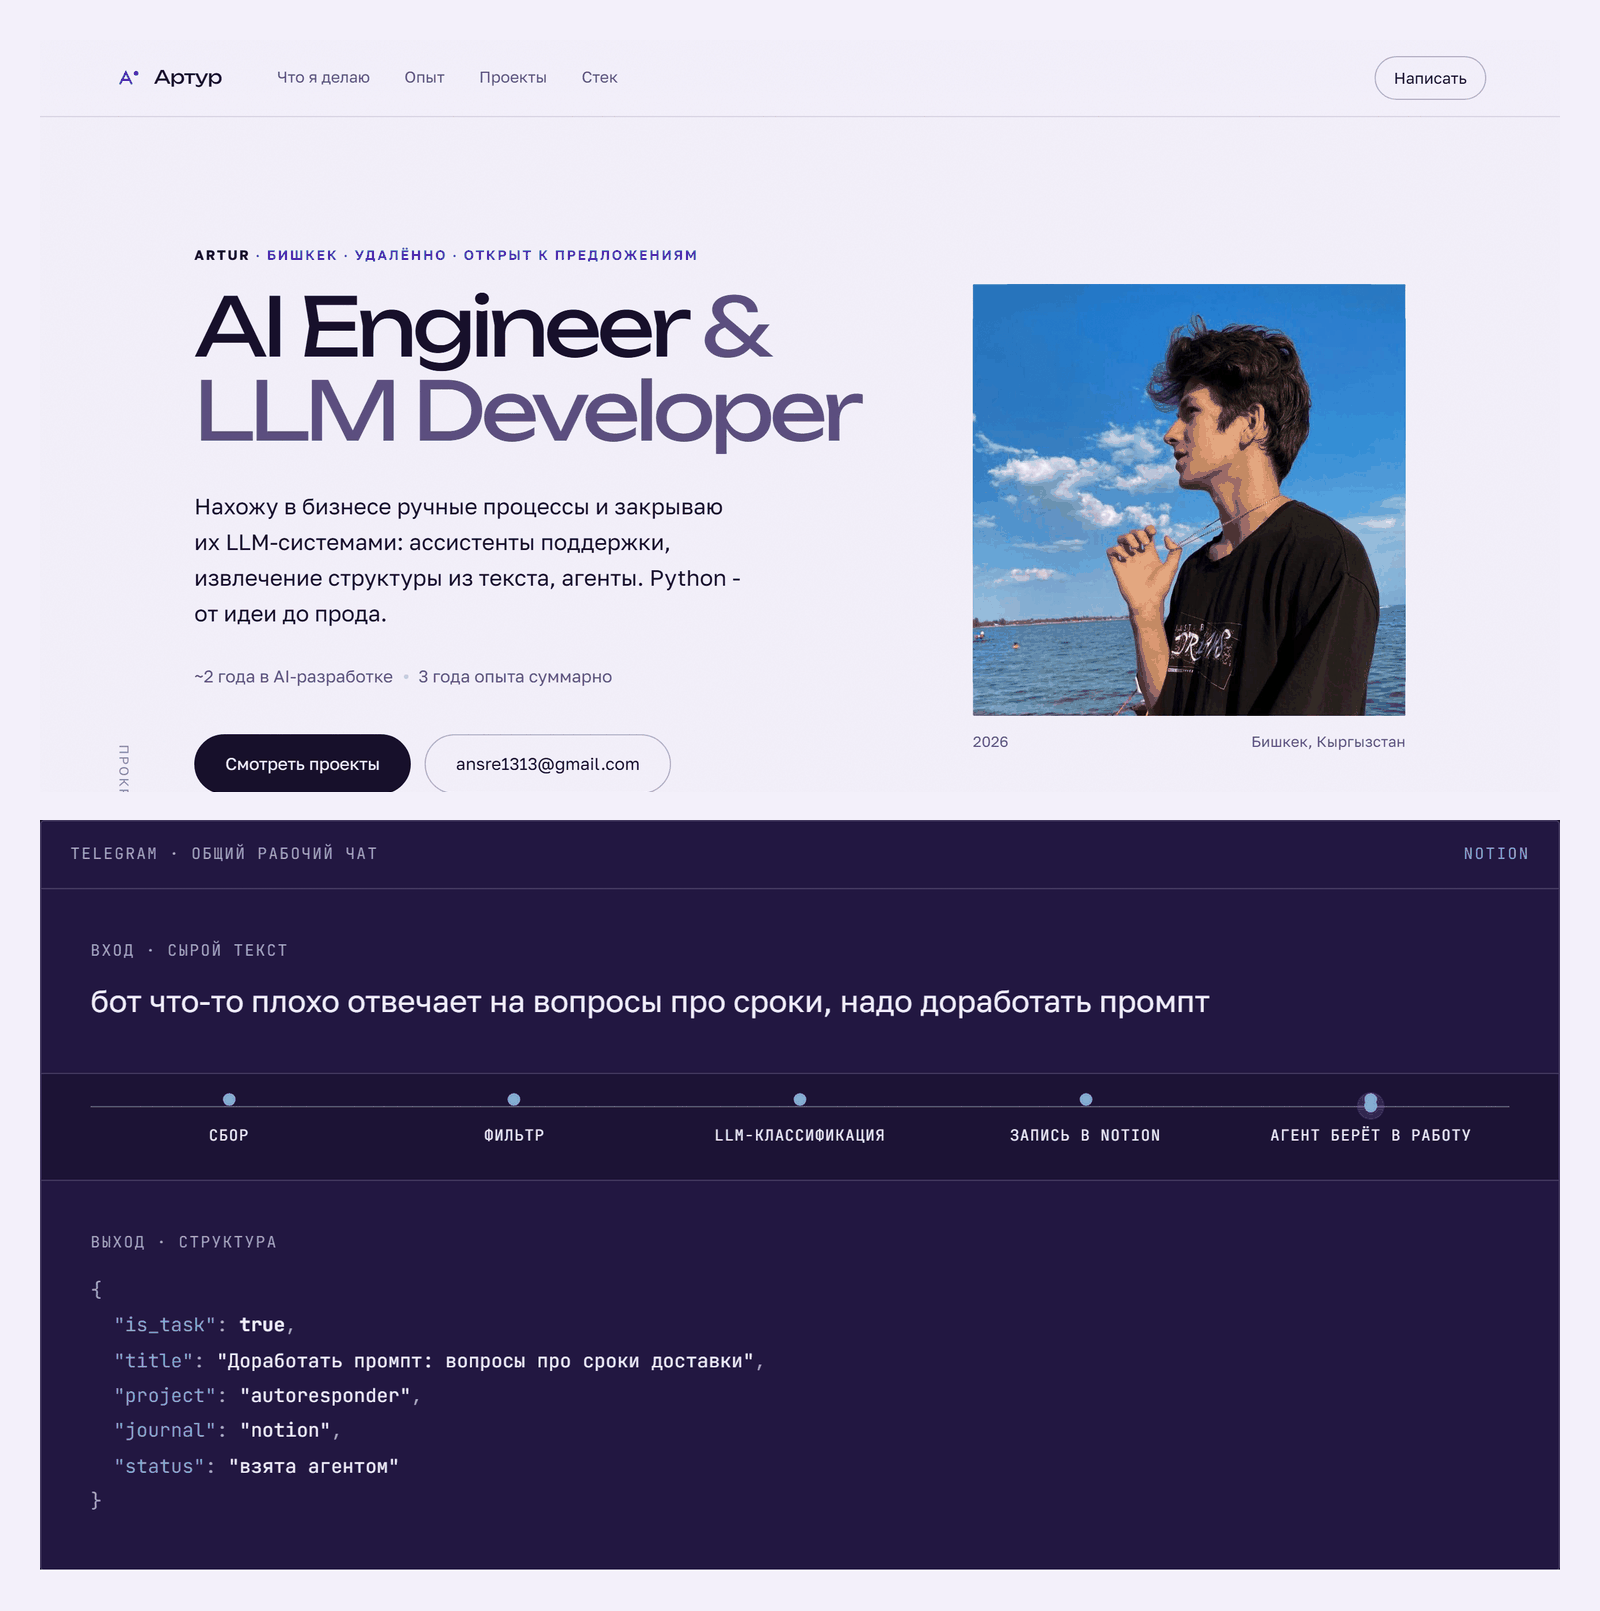
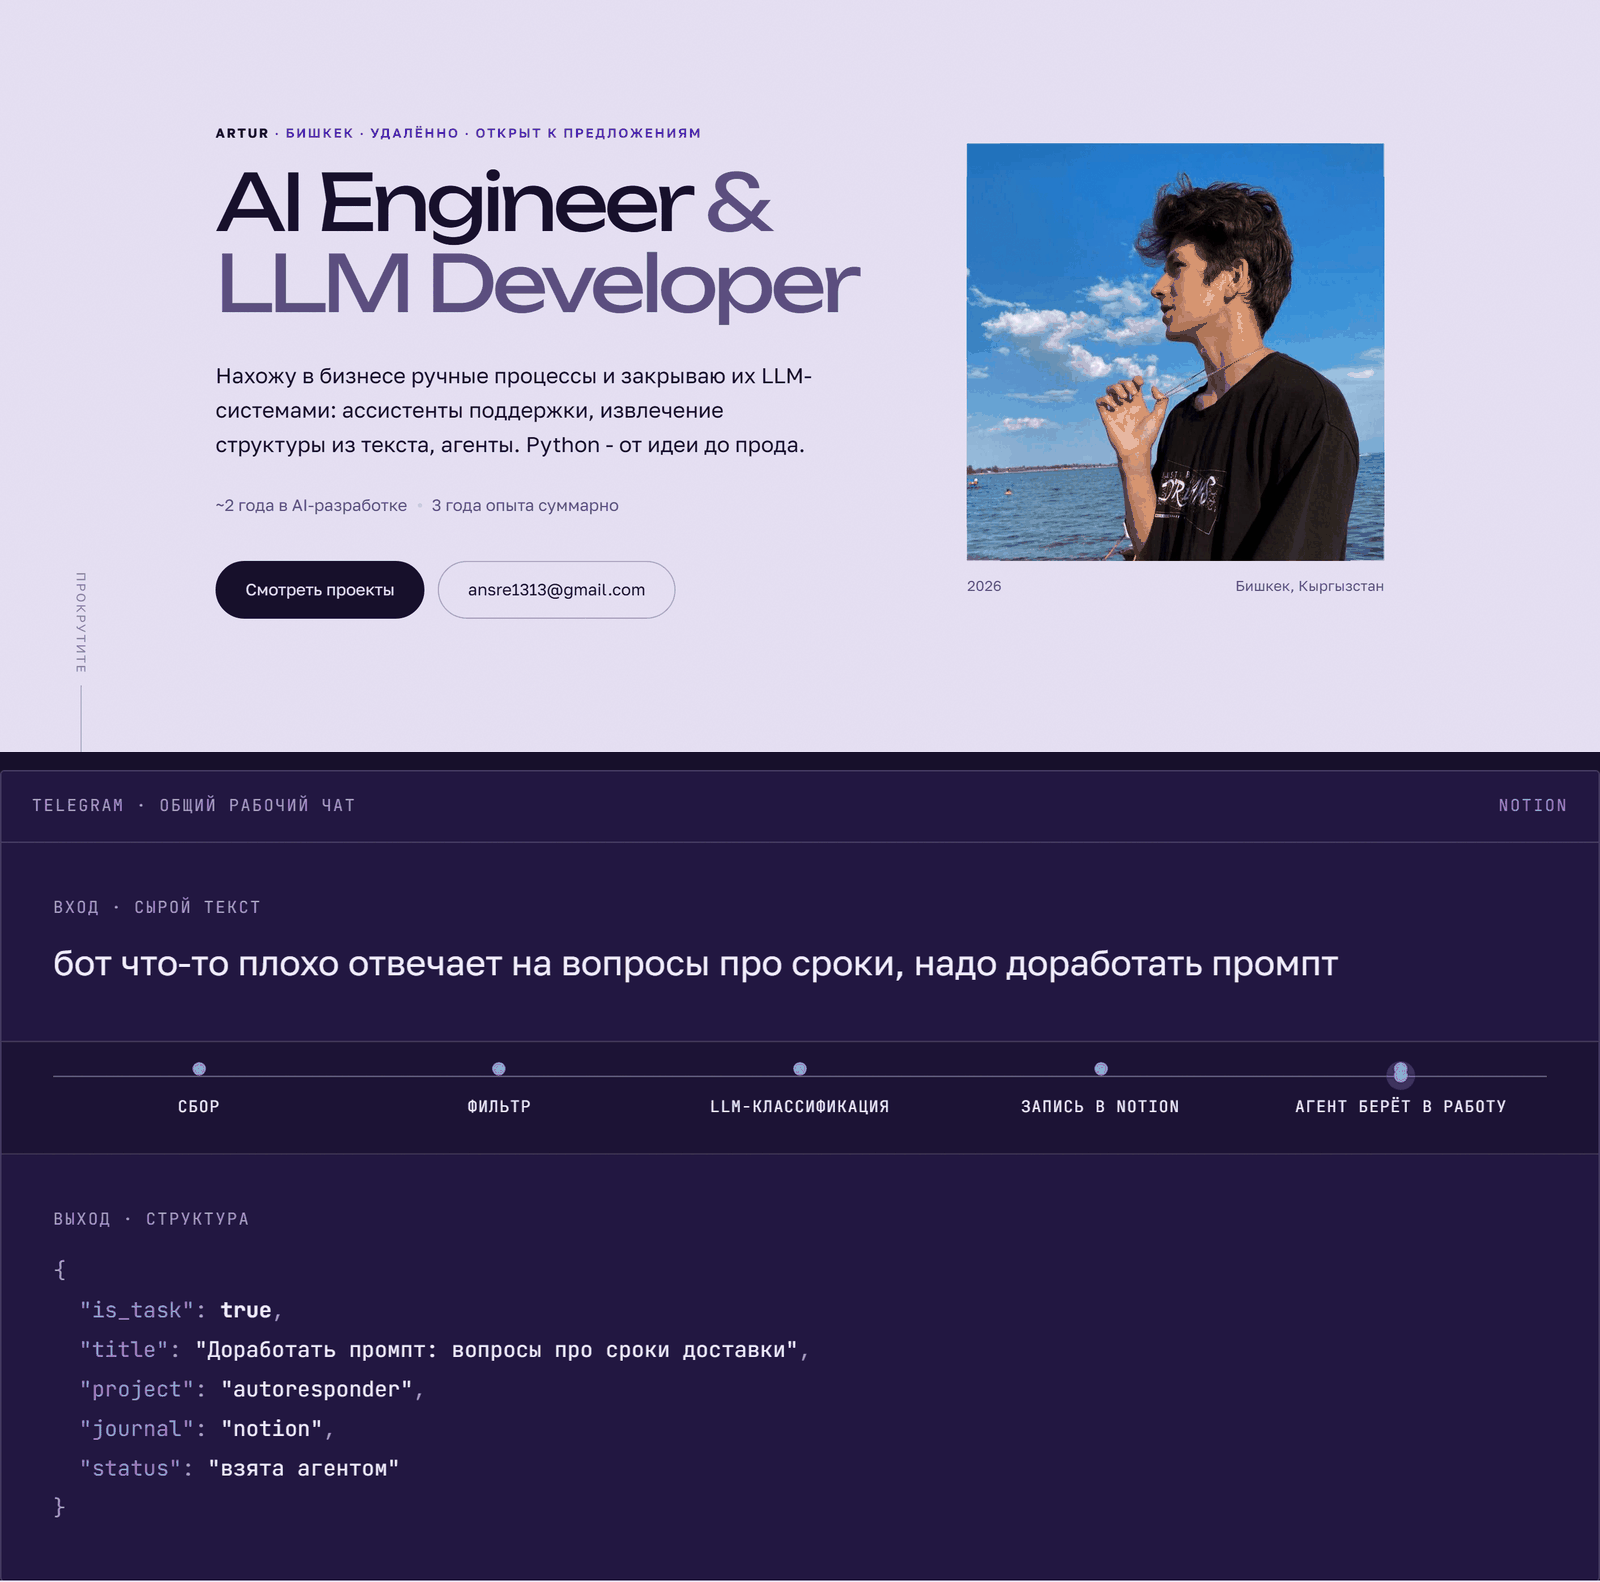
add test task cards, deepen paper tone

diff --git a/index.html b/index.html
@@ -160,7 +160,7 @@
   <div class="wrap">
     <header class="sec-head">
       <p class="eyebrow reveal">Опыт</p>
-      <h2 class="reveal">Где это работало</h2>
+      <h2 class="reveal">Где я работал</h2>
     </header>
 
     <ol class="timeline">
@@ -314,6 +314,85 @@
         </div>
       </article>
 
+    </div>
+
+    <div class="subsec">
+      <header class="sec-head">
+        <p class="eyebrow reveal">Тестовые задания</p>
+        <h3 class="reveal">Решено под чужие требования</h3>
+        <p class="lede reveal">
+          Здесь задачу ставил не я: чужие требования, чужие критерии приёмки, срок.
+          Оба задания сданы, код открыт.
+        </p>
+      </header>
+
+      <div class="cards">
+
+        <article class="card reveal">
+          <div class="card__head">
+            <h3>qcai-skills</h3>
+            <p class="card__kicker mono">агентные скиллы · аудит кода · Pillow</p>
+          </div>
+          <p class="card__sum">
+            Два инструмента для платформы AI-разработки. <b>ship-check</b> - аудит перед
+            деплоем: детерминированный сканер собирает кандидатов с привязкой к строке,
+            модель подтверждает каждого по коду вокруг, отдельный <span class="mono">verify.py</span>
+            сверяет результат с базой. Формат инструментов платформы снят с самого клиента -
+            документации на него нет.
+          </p>
+          <p class="card__aside">
+            Второй скилл, <b>carousel-studio</b>: модель рисует только фон, типографику ставит
+            код по сетке. Дрейф палитры между кадрами - 25.8 против 5.7 с зафиксированным
+            арт-дирекшном.
+          </p>
+          <div class="metric">
+            <p class="metric__label mono">один и тот же код, 12 заложенных проблем</p>
+            <table class="cmp">
+              <tr><td>Агент в чате, прогон 1</td><td class="mono">12</td><td class="mono">27k</td></tr>
+              <tr><td>прогон 2</td><td class="mono">9</td><td class="mono">15k</td></tr>
+              <tr><td>прогон 3</td><td class="mono">9</td><td class="mono">12k</td></tr>
+              <tr><td>ship-check</td><td class="mono hi">20+1</td><td class="mono">скан 0</td></tr>
+            </table>
+            <p class="metric__note">
+              Находок за прогон и токенов. Три одинаковых запроса - три разных ответа, и ни
+              один не проверить. <span class="mono">verify.py</span> сравнивает с базой:
+              <b>25 -> 0</b>, и отдельно показывает, что патч занёс нового.
+            </p>
+          </div>
+          <div class="card__links">
+            <a href="https://github.com/Artirain/qcai-skills" target="_blank" rel="noopener">Код ↗</a>
+          </div>
+        </article>
+
+        <article class="card reveal">
+          <div class="card__head">
+            <h3>django-stripe-checkout</h3>
+            <p class="card__kicker mono">Django · Stripe · Docker</p>
+          </div>
+          <p class="card__sum">
+            Каталог и заказы с оплатой через Stripe - оба потока, Checkout Session и
+            Payment Intent. Скидка и налог уходят в Stripe объектами (Coupon и TaxRate),
+            а не зашитой в цену суммой, и покупатель видит их на стороне Stripe. Две валюты:
+            своя пара ключей на каждую, глобальный <span class="mono">stripe.api_key</span>
+            не трогается ни разу.
+          </p>
+          <div class="metric">
+            <p class="metric__label mono">путь платежа</p>
+            <p class="flow mono">GET /buy/{id} -> Session.create -> Checkout -> Session.retrieve -> paid</p>
+            <p class="metric__note">
+              Заказ помечается оплаченным только после <span class="mono">Session.retrieve</span> -
+              редирект на <span class="mono">success_url</span> сам по себе ничего не доказывает.
+              32 теста на pytest, вызовы Stripe замоканы. Стенд на бесплатном плане: после
+              простоя первый запрос поднимает контейнер ~40 секунд.
+            </p>
+          </div>
+          <div class="card__links">
+            <a href="https://django-stripe-checkout-wnmz.onrender.com" target="_blank" rel="noopener">Живой стенд ↗</a>
+            <a href="https://github.com/Artirain/django-stripe-checkout" target="_blank" rel="noopener">Код ↗</a>
+          </div>
+        </article>
+
+      </div>
     </div>
 
     <div class="closed reveal">

diff --git a/styles.css b/styles.css
@@ -4,8 +4,8 @@
    ============================================================ */
 
 :root {
-  --paper:   #F3F0FA;
-  --paper-2: #E9E3F7;
+  --paper:   #E6E0F3;
+  --paper-2: #DBD2EE;
   --ink:     #17102B;
   --muted:   #5C4E80;
   --accent:  #5B2AE6;
@@ -456,6 +456,14 @@ section { padding-block: clamp(84px, 11vw, 148px); }
 .cmp td:nth-child(3) { text-align: right; width: 64px; }
 .cmp tr:last-child td { border-bottom: 0; }
 .cmp .hi { color: var(--accent); font-weight: 700; }
+
+.subsec {
+  margin-top: clamp(40px, 6vw, 72px); padding-top: clamp(34px, 4vw, 50px);
+  border-top: 1px solid var(--line);
+}
+.subsec .sec-head { margin-bottom: clamp(30px, 4vw, 46px); }
+.subsec .sec-head h3 { font-size: clamp(1.5rem, 2.8vw, 2.1rem); margin-top: 16px; letter-spacing: -.02em; }
+.subsec .sec-head .lede { margin-top: 16px; color: var(--muted); }
 
 .closed {
   margin-top: clamp(40px, 6vw, 72px); padding-top: clamp(34px, 4vw, 50px);
